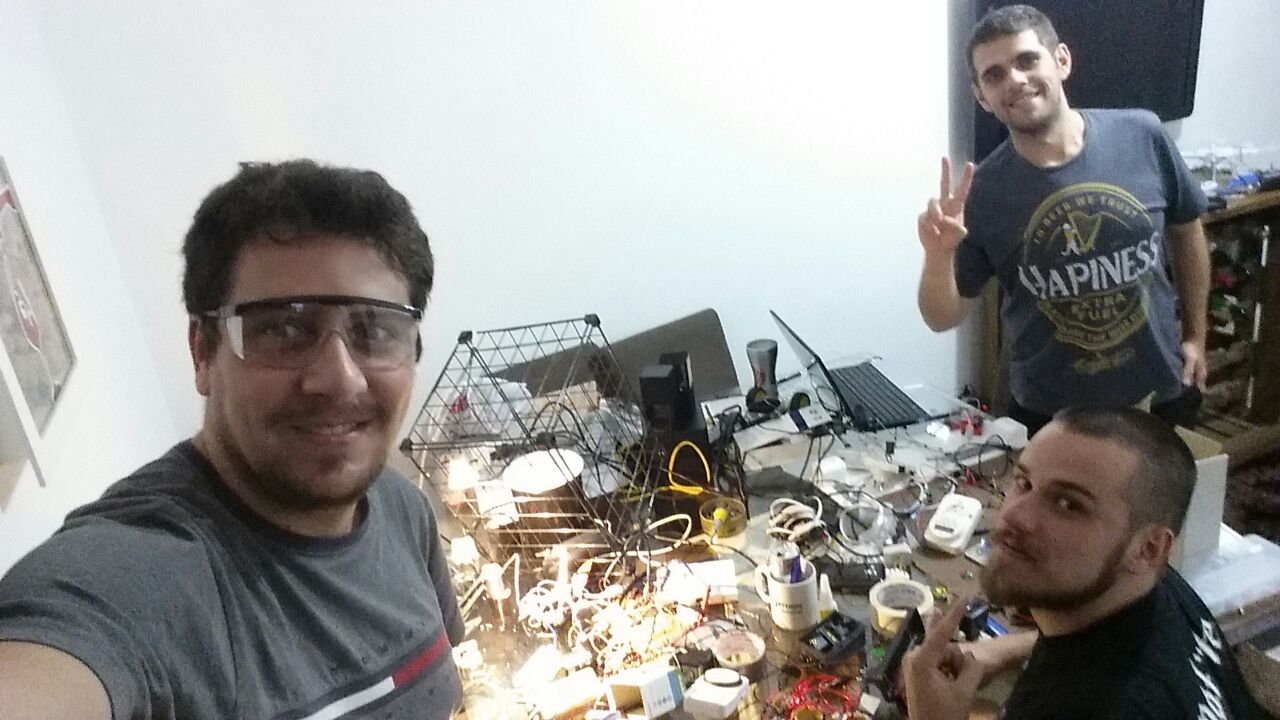
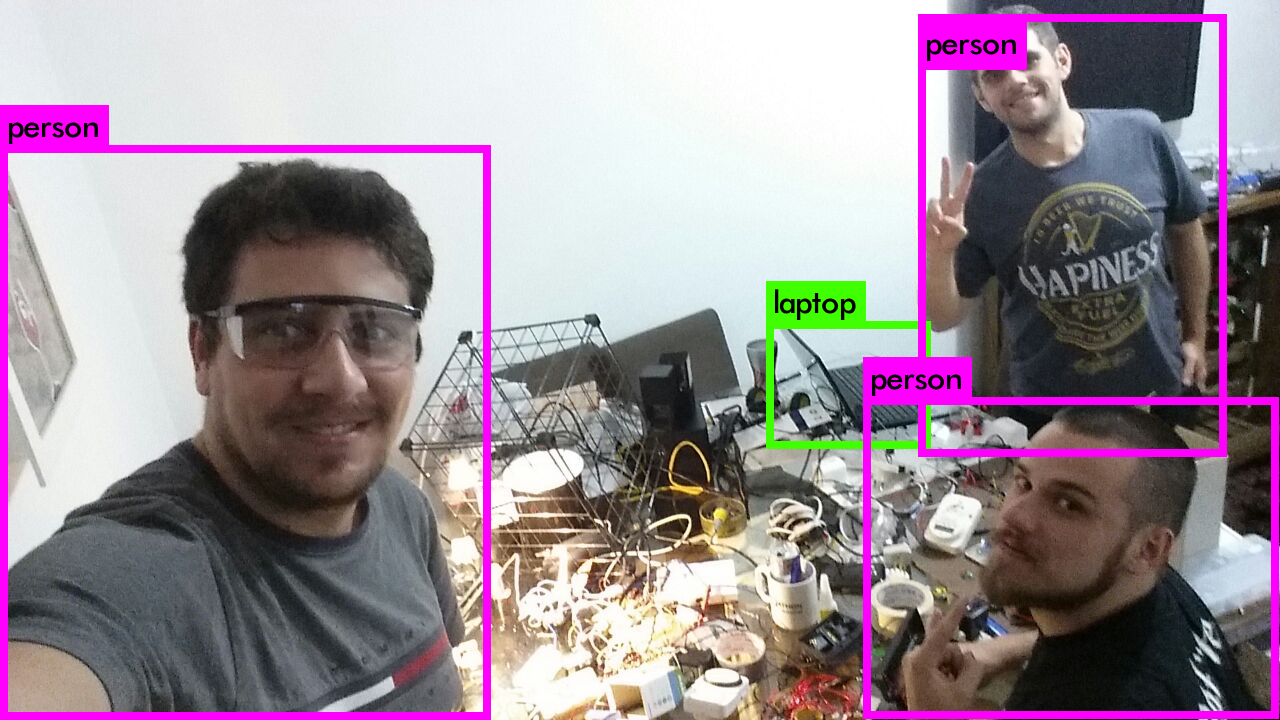
troca para saida em porcentagem

Changed region(s): [[0.5938, 0.0, 1.0, 1.0], [0.0, 0.1222, 0.4062, 1.0]]

diff --git a/main.js b/main.js
@@ -66,10 +66,10 @@ for (i = 0; i < a.length; i++) {
   obj.prob = a[i].prob;
   obj.box = {}
   b = a[i].b;
-  obj.box.x  = parseInt((b.x-b.w/2.)*im.w);
-  obj.box.y =  parseInt((b.y-b.h/2.)*im.h);
-  obj.box.w  = parseInt(b.w*im.w);
-  obj.box.h  = parseInt(b.h*im.h)
+  obj.box.x  = ((b.x-b.w/2.)*100);
+  obj.box.y =  ((b.y-b.h/2.)*100);
+  obj.box.w  = ((b.w)*100);
+  obj.box.h  = ((b.h)*100)
   if (ag) 
    ag(obj);
   out.push(obj);
